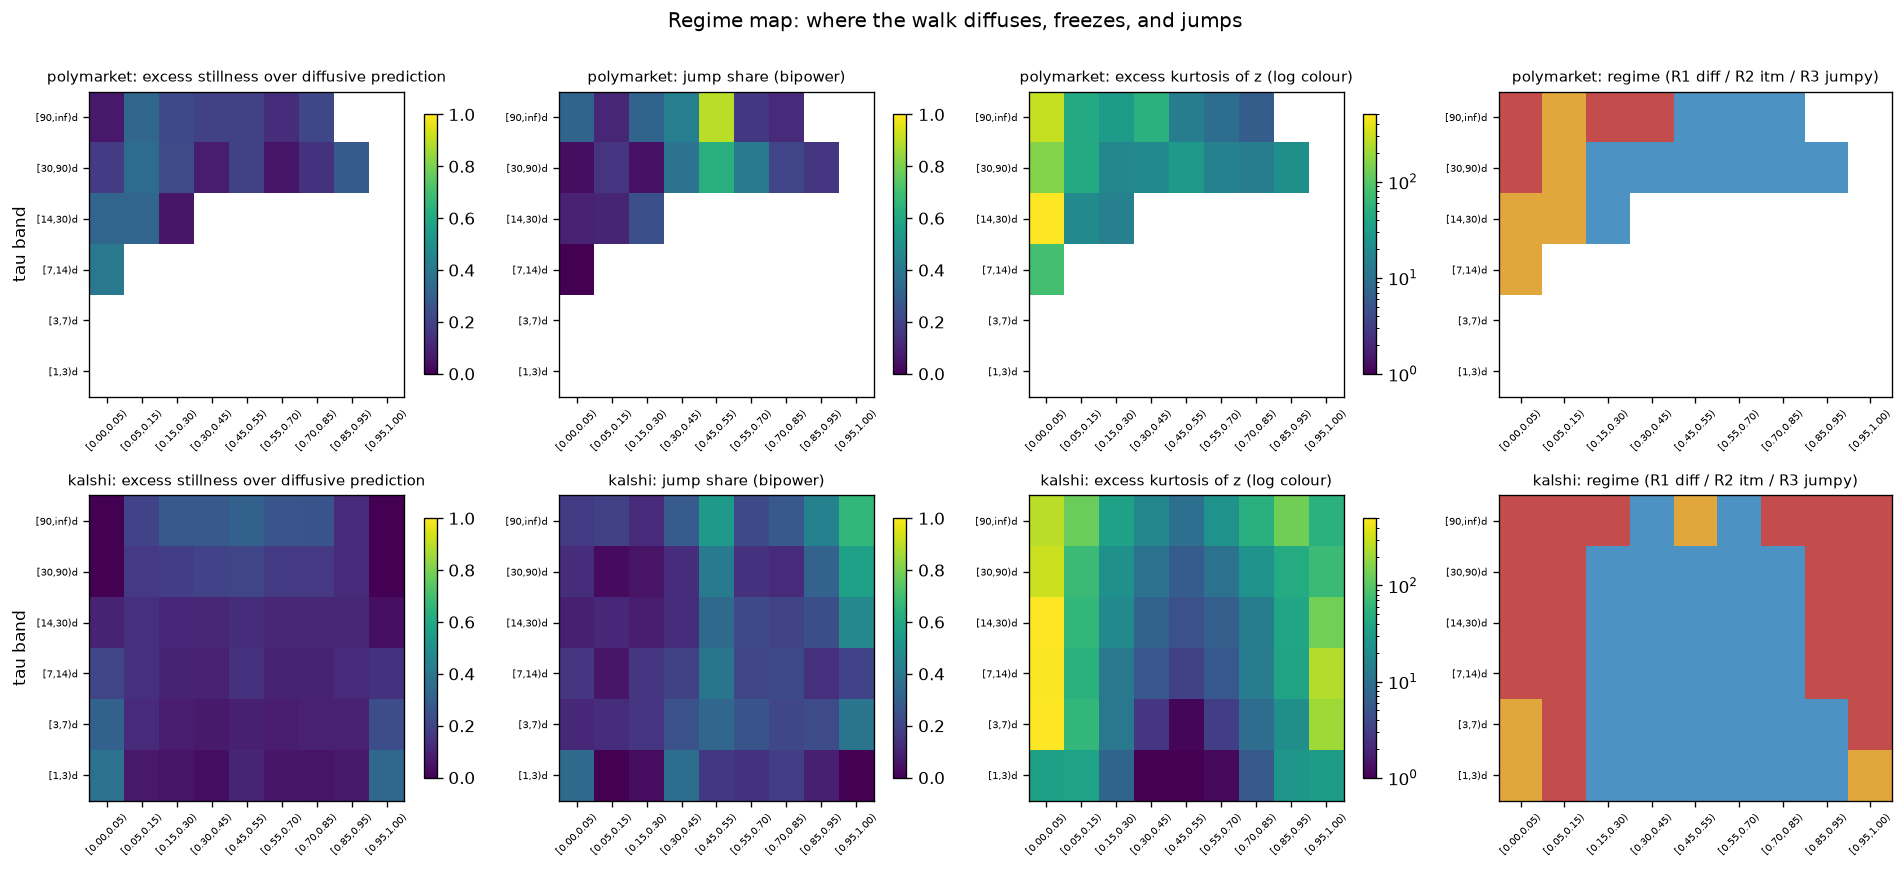
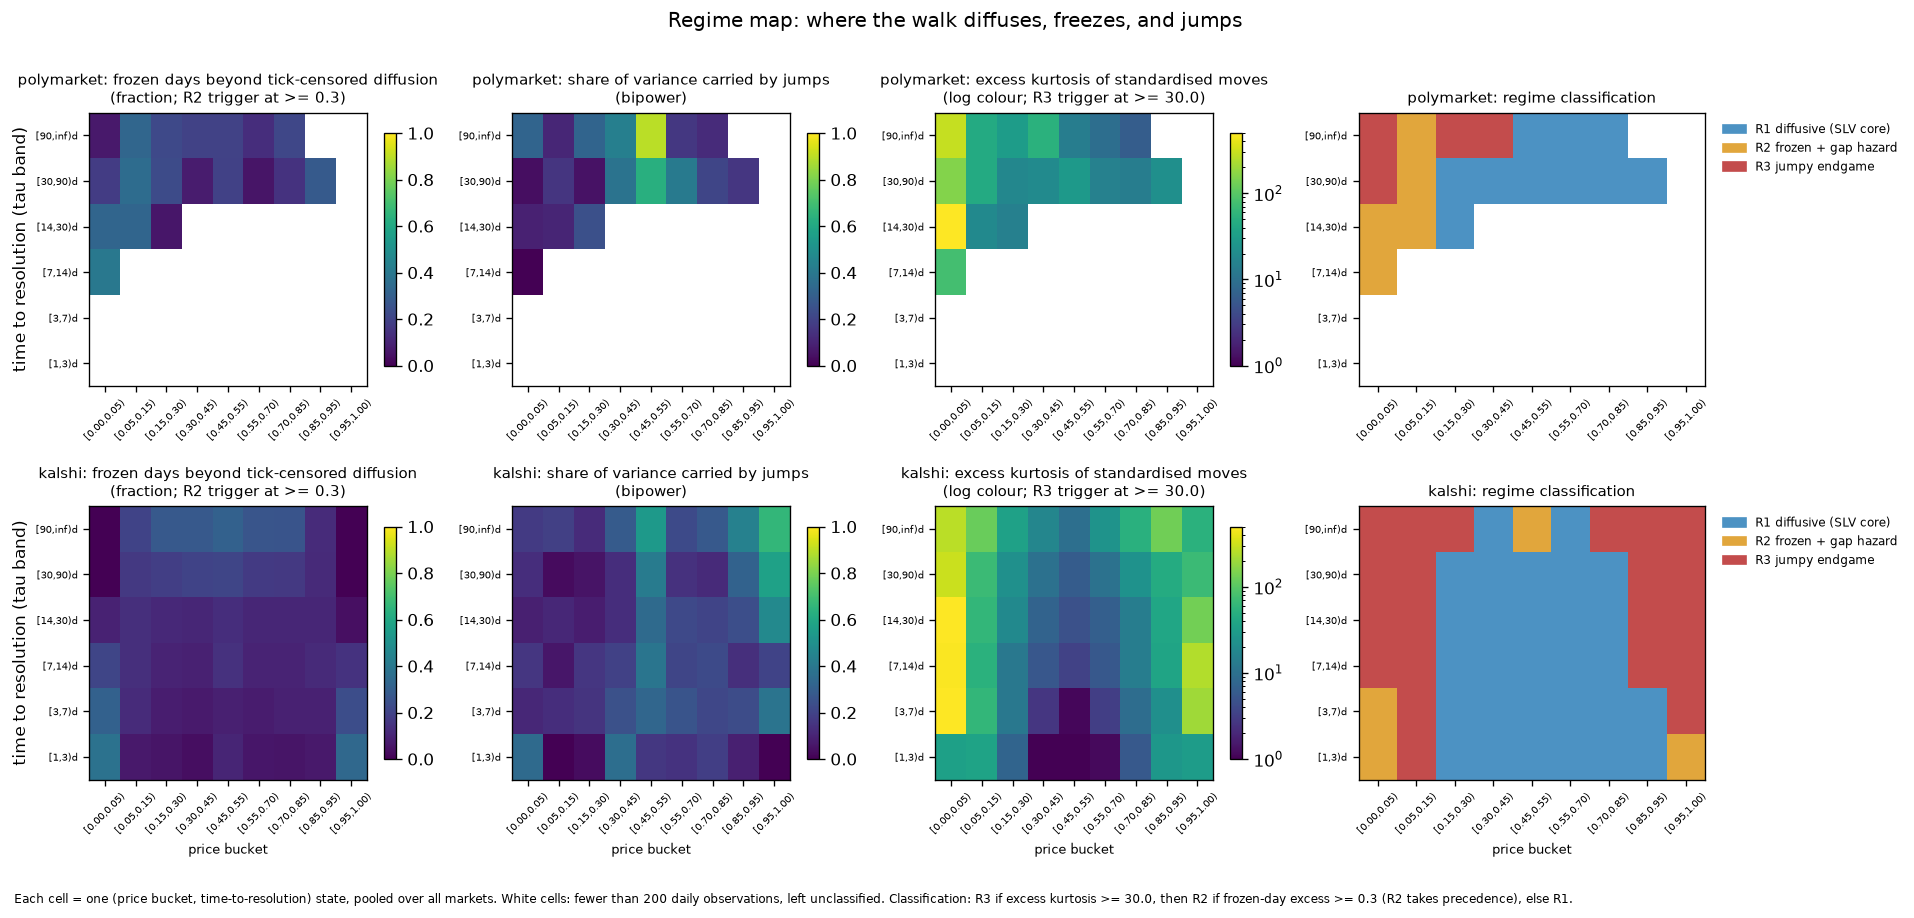
Make regime-map figure self-contained: legend, axis labels, thresholds, footnote

diff --git a/analysis/regime_map.py b/analysis/regime_map.py
@@ -176,10 +176,14 @@ def plot_map(maps: dict[str, pd.DataFrame], path: Path) -> None:
     import matplotlib.pyplot as plt
     from matplotlib.colors import ListedColormap, LogNorm
 
-    panels = [("excess_still", "excess stillness over diffusive prediction", None),
-              ("jump_share", "jump share (bipower)", None),
-              ("kurt_z", "excess kurtosis of z (log colour)", "log"),
-              ("regime", "regime (R1 diff / R2 itm / R3 jumpy)", "cat")]
+    panels = [("excess_still",
+               "frozen days beyond tick-censored diffusion\n"
+               f"(fraction; R2 trigger at >= {STILL_THRESH})", None),
+              ("jump_share", "share of variance carried by jumps\n(bipower)", None),
+              ("kurt_z",
+               "excess kurtosis of standardised moves\n"
+               f"(log colour; R3 trigger at >= {KURT_THRESH})", "log"),
+              ("regime", "regime classification", "cat")]
     nv = len(maps)
     fig, axes = plt.subplots(nv, 4, figsize=(16, 3.6 * nv), squeeze=False)
     p_labels = [vc._bucket_label(i) for i in range(len(vc.P_BUCKETS) - 1)]
@@ -200,14 +204,30 @@ def plot_map(maps: dict[str, pd.DataFrame], path: Path) -> None:
                                cmap="viridis", vmin=0, vmax=1)
             if kind != "cat":
                 fig.colorbar(im, ax=ax, shrink=0.85)
+            else:
+                from matplotlib.patches import Patch
+                ax.legend(handles=[
+                    Patch(color="#4c92c3", label="R1 diffusive (SLV core)"),
+                    Patch(color="#e1a63c", label="R2 frozen + gap hazard"),
+                    Patch(color="#c34c4c", label="R3 jumpy endgame")],
+                    loc="upper left", bbox_to_anchor=(1.02, 1.0), fontsize=7,
+                    frameon=False)
             ax.set_xticks(range(len(p_labels)), p_labels, rotation=45,
                           fontsize=6)
             ax.set_yticks(range(len(t_labels)), t_labels, fontsize=6)
             ax.set_title(f"{venue}: {title}", fontsize=9)
             if ci == 0:
-                ax.set_ylabel("tau band")
+                ax.set_ylabel("time to resolution (tau band)")
+            if vi == nv - 1:
+                ax.set_xlabel("price bucket", fontsize=8)
     fig.suptitle("Regime map: where the walk diffuses, freezes, and jumps",
                  y=1.0)
+    fig.text(0.01, -0.02,
+             "Each cell = one (price bucket, time-to-resolution) state, pooled over all markets. "
+             "White cells: fewer than "
+             f"{MIN_CELL} daily observations, left unclassified. Classification: R3 if excess kurtosis >= {KURT_THRESH}, "
+             f"then R2 if frozen-day excess >= {STILL_THRESH} (R2 takes precedence), else R1.",
+             fontsize=7, va="top")
     fig.tight_layout()
     fig.savefig(path, dpi=120, bbox_inches="tight")
     plt.close(fig)
